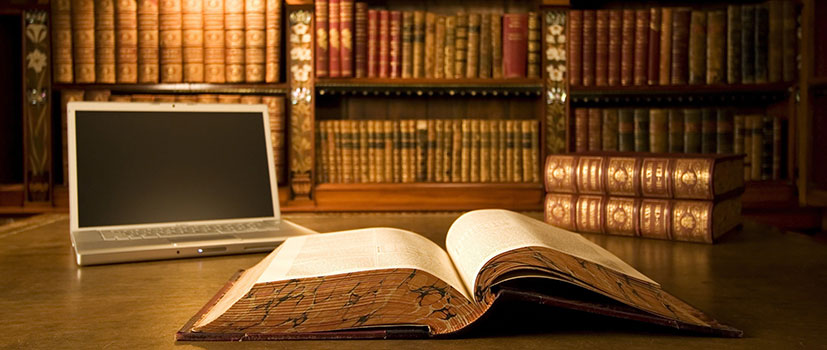
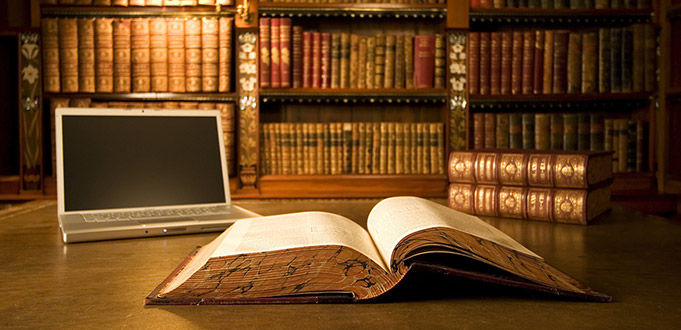
resize in percent rotator

diff --git a/index.html b/index.html
@@ -192,7 +192,7 @@
 									
 									<div class="item" index="1"><img src="img/rotator/students.jpg">	</div>
 									<div class="item" index="2"><img src="img/rotator/einstein.jpg"> </div>
-									<div class="item" index="3"><img src="img/rotator/scientist.jpg"> </div>
+								<!--	<div class="item" index="3"><img src="img/rotator/scientist.jpg"> </div>-->
 									<div class="item" index="4"><img src="img/rotator/noutbuk_i_knigi.jpg"></div>								
 								</div>	
 								
@@ -316,18 +316,23 @@
 		</div>
 	</div>	
 	</div>
-	<footer class="footer_section" class="container">
-		<div class="row">
-			<div class="col-md-6">	
-				<p class="contact_footer">65020 м. Одеса, вул. Ковальська 15 тел. +38(048)726-68-92 odivt@mail.ru</p>
-				
+	
+	<footer class="footer_section" >
+			<div class="container">
+				<div class="row">
+					<div class="col-md-6">	
+						<p class="contact_footer">65020 м. Одеса, вул. Ковальська 15 тел. +38(048)726-68-92 odivt@mail.ru</p>
+						
+					</div>
+					<div class="col-md-6"></div>
+						<p class="contact_org"> <a href=""> Міністерство освіти України</a> | <a href=""> Міжнародна академія стандартизації</a> </p>
+						<p class="contact_org"> <a href="">Союз споживачів України</a> | <a href="">Державна інспекція України  з питань захисту прав споживачів.</a></p>
+					</div>
+				</div>
 			</div>
-			<div class="col-md-6"></div>
-				<p class="contact_org"> <a href=""> Міністерство освіти України</a> | <a href=""> Міжнародна академія стандартизації</a> </p>
-				<p class="contact_org"> <a href="">Союз споживачів України</a> | <a href="">Державна інспекція України  з питань захисту прав споживачів.</a></p>
-			</div>
-		</div>
-	</footer>
+			
+		</footer>	
+
 	<!--[if lt IE 9]>
 	<script src="libs/html5shiv/es5-shim.min.js"></script>
 	<script src="libs/html5shiv/html5shiv.min.js"></script>

diff --git a/css/main.css b/css/main.css
@@ -438,18 +438,18 @@ transform: translateY(3px);
 
 
 .rotator{
-	background-color: #f4d1d1;
-	width:100%;
-	height:auto;
+	background-color:#218b9b;
 	border: 0px solid yellow;
 	margin: 20px auto;
 	position:relative;
+	width:70%;
+	height:100%;
 }
 
 
 .carusel img {
 	width:100%;
-	height:auto;
+	height:330px;
 	display: block;
 	cursor: pointer;
 	overflow: hidden;
@@ -549,6 +549,7 @@ height: 260px;
     padding: 10.5px 11px;
     background-color: #fafafa;
     display:block;
+    font-size: 14px;
 }
  
 .menu_simple ul li a:visited {
